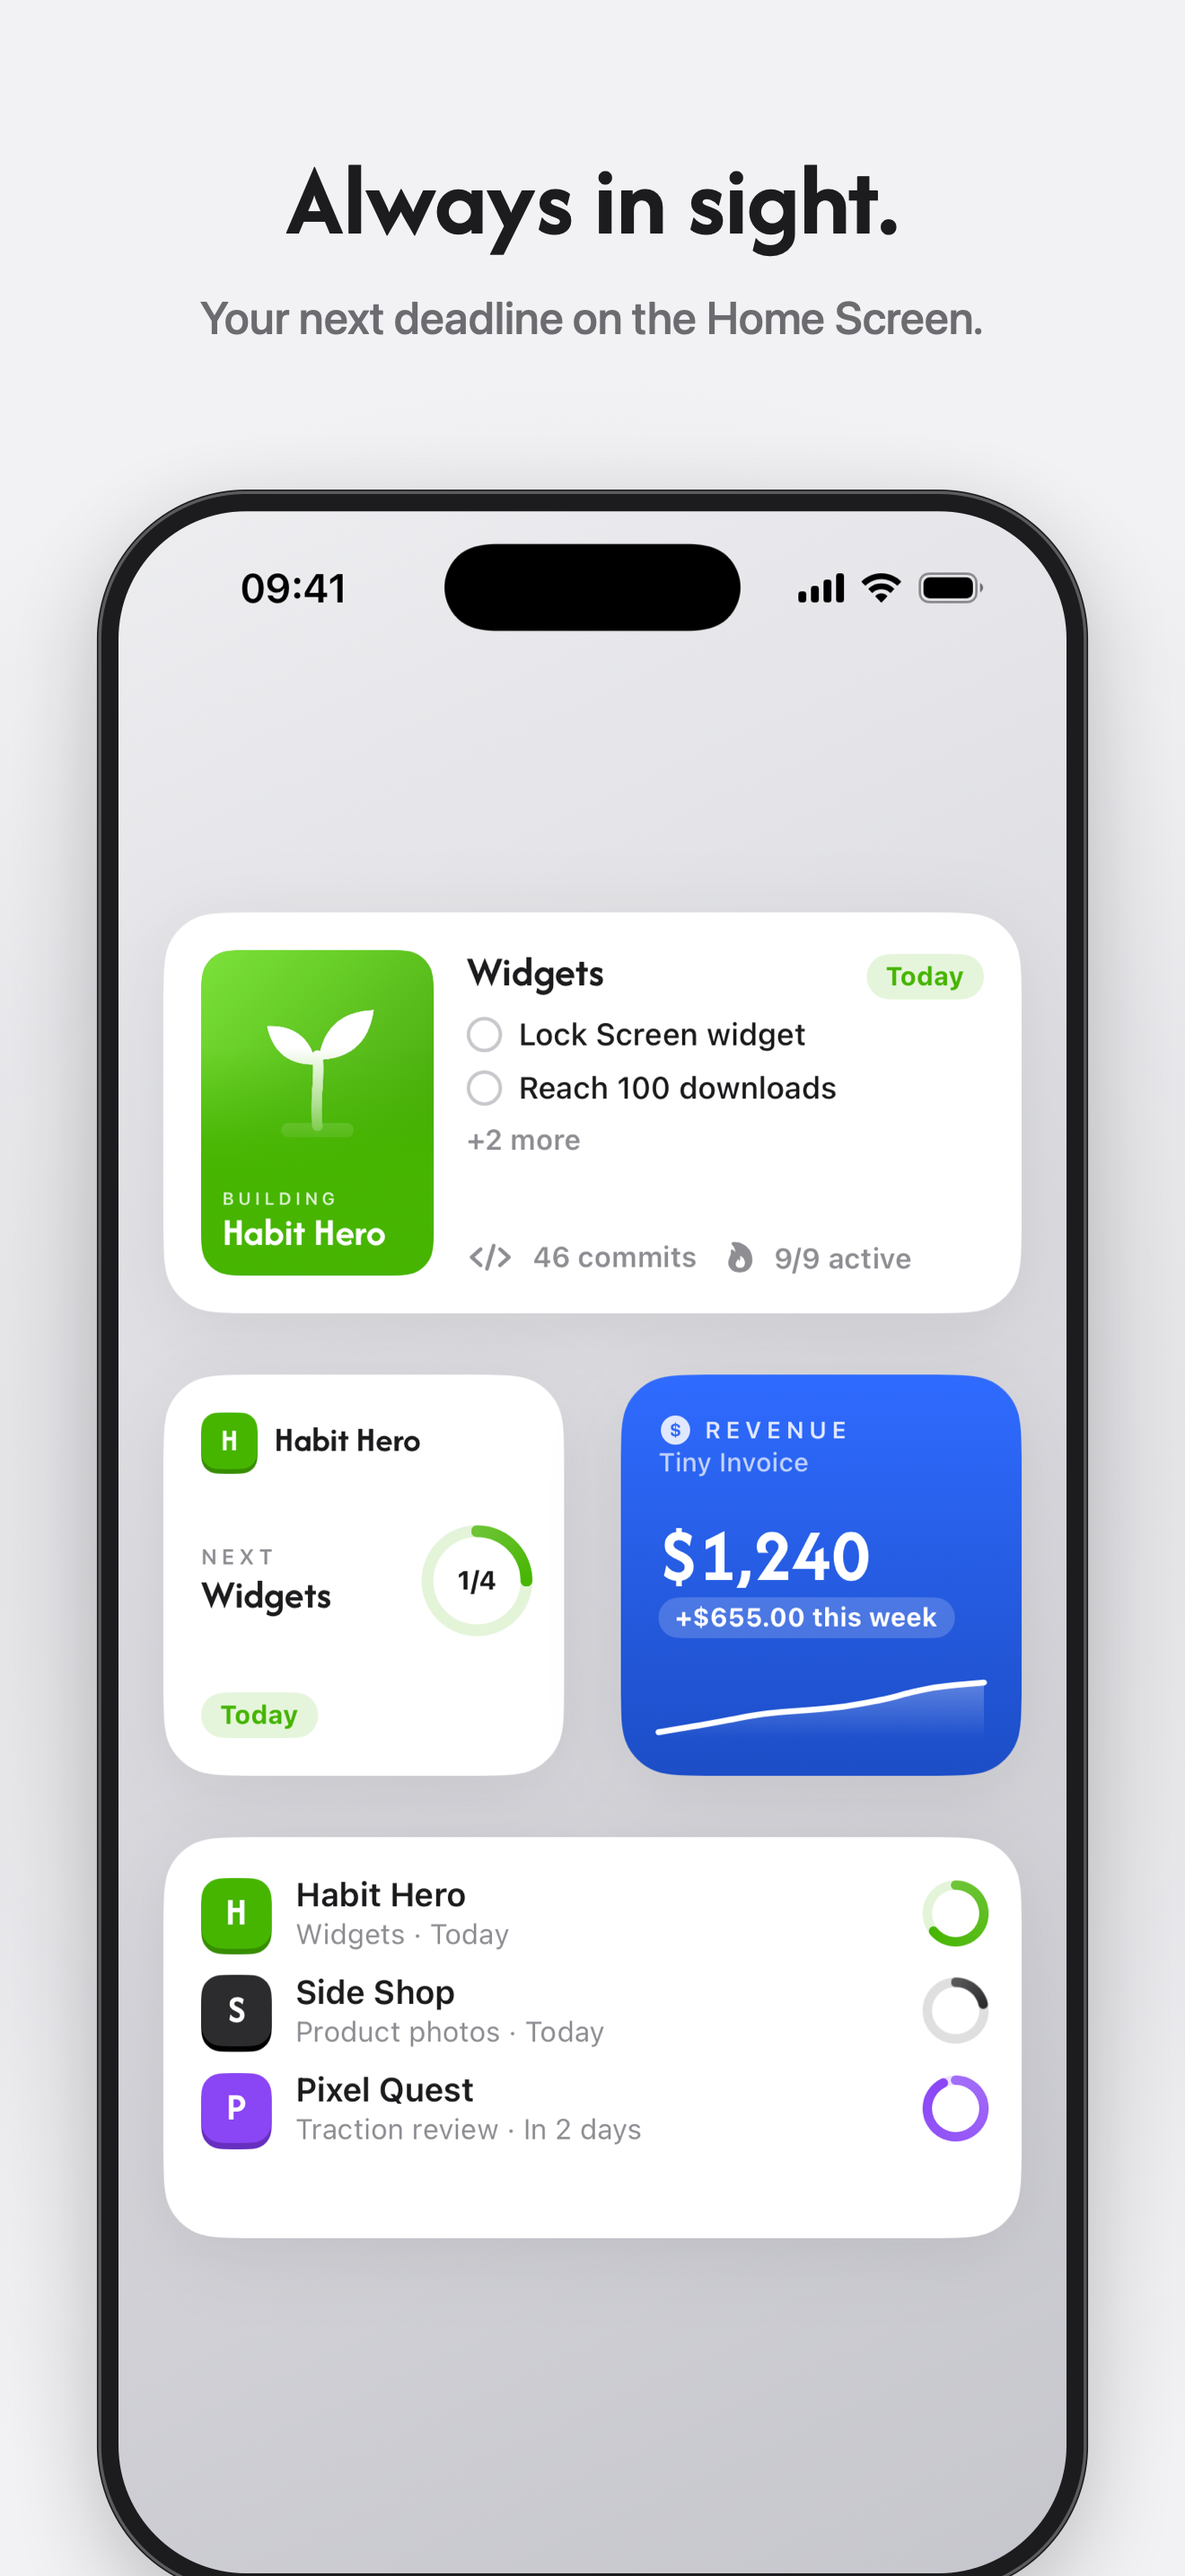
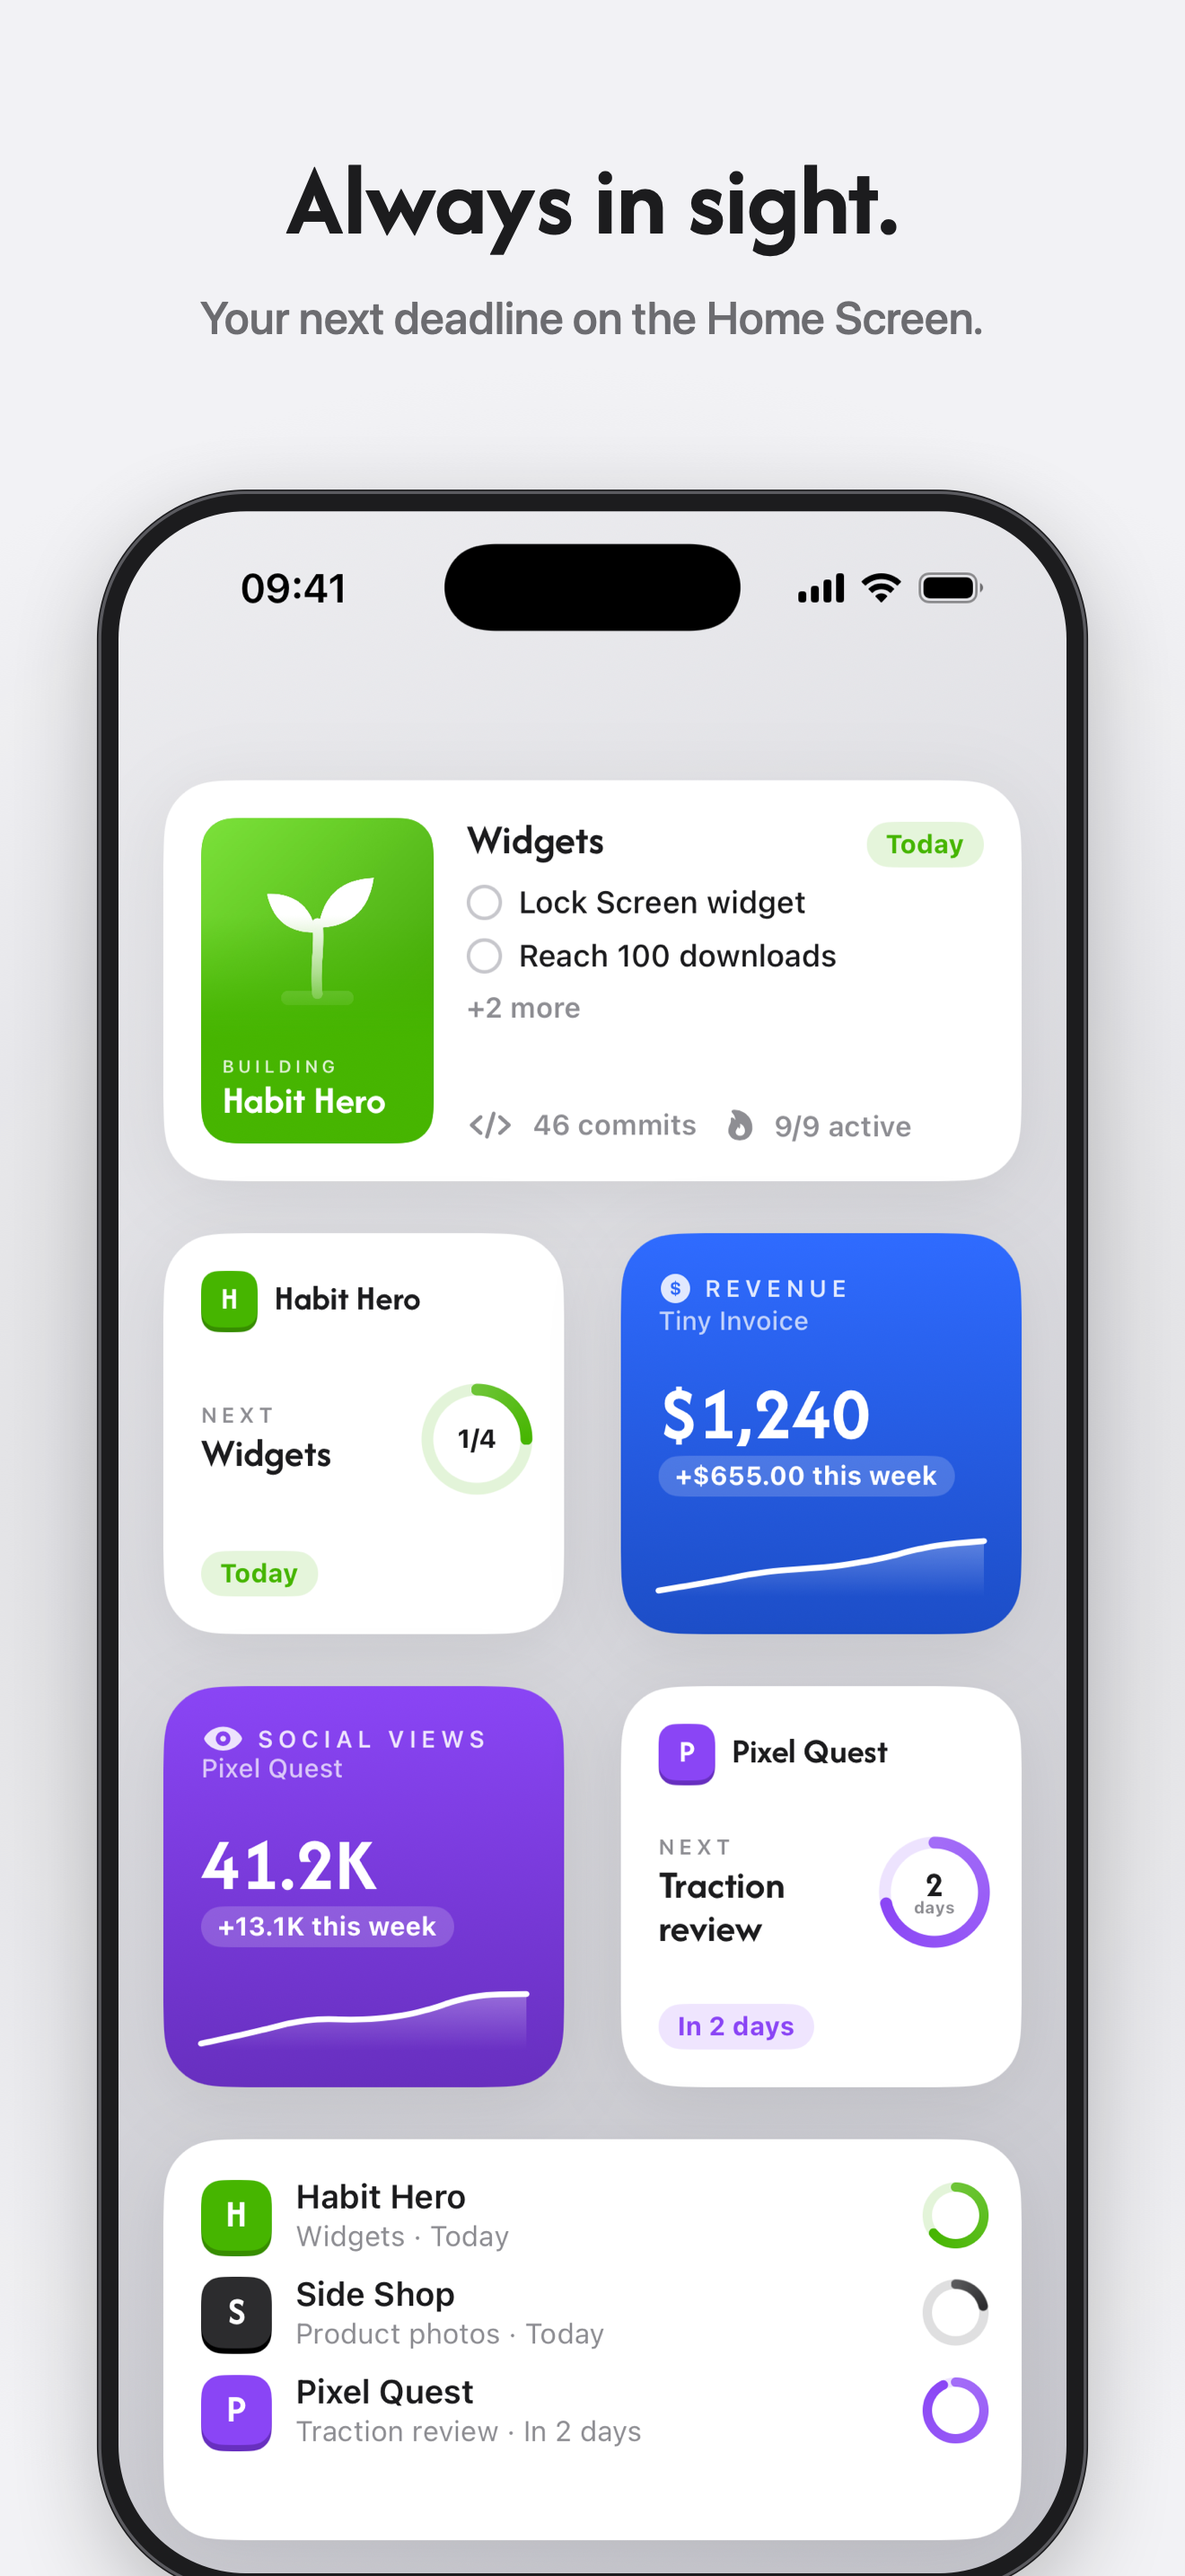
App Store: widgets frame fills the screen, with Pixel Quest's widgets added

diff --git a/prodline/Views/WidgetGalleryView.swift b/prodline/Views/WidgetGalleryView.swift
@@ -156,7 +156,10 @@ struct StoreWidgetBoard: View {
         let now = Date.now
         // The green one, so the first widget carries some color.
         let project = data.projects.first { $0.name == "Habit Hero" } ?? data.mostUrgent(on: now)
-        VStack(spacing: 26) {
+        let invoice = data.projects.first { $0.name == "Tiny Invoice" }
+        let game = data.projects.first { $0.name == "Pixel Quest" }
+        // Four rows from the status bar down to the home indicator, like a full Home Screen page.
+        VStack(spacing: 22) {
             WidgetTile(size: WidgetSize.medium) {
                 ProjectWidgetView(project: project, date: now, family: .systemMedium)
             }
@@ -165,15 +168,23 @@ struct StoreWidgetBoard: View {
                     ProjectWidgetView(project: project, date: now, family: .systemSmall)
                 }
                 WidgetTile(size: WidgetSize.small, content: {
-                    TractionWidgetView(project: data.projects.first { $0.name == "Tiny Invoice" }, projects: data.projects,
-                                       metricKey: "revenue", date: now, family: .systemSmall)
-                }, background: { TractionWidgetView.background(for: data.projects.first { $0.name == "Tiny Invoice" }) })
+                    TractionWidgetView(project: invoice, projects: data.projects, metricKey: "revenue", date: now, family: .systemSmall)
+                }, background: { TractionWidgetView.background(for: invoice) })
+            }
+            HStack(spacing: 24) {
+                WidgetTile(size: WidgetSize.small, content: {
+                    TractionWidgetView(project: game, projects: data.projects, metricKey: "social_views", date: now, family: .systemSmall)
+                }, background: { TractionWidgetView.background(for: game) })
+                WidgetTile(size: WidgetSize.small) {
+                    ProjectWidgetView(project: game, date: now, family: .systemSmall)
+                }
             }
             WidgetTile(size: WidgetSize.medium) {
                 LineupWidgetView(data: data, date: now, family: .systemMedium)
             }
         }
-        .frame(maxWidth: .infinity, maxHeight: .infinity)
+        .padding(.top, 72)
+        .frame(maxWidth: .infinity, maxHeight: .infinity, alignment: .top)
         .background {
             LinearGradient(colors: [Color(hex: 0xEDEDF0), Color(hex: 0xD9D9DE), Color(hex: 0xC6C6CD)],
                            startPoint: .topLeading, endPoint: .bottomTrailing)
